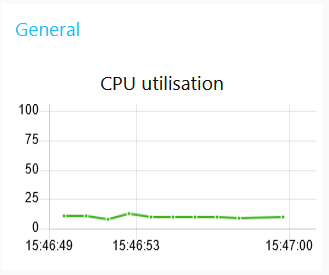
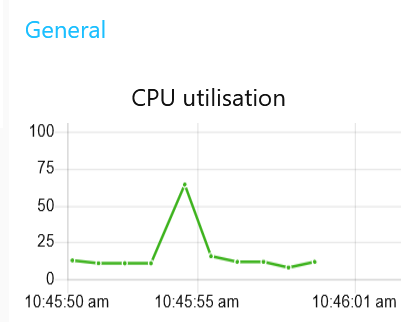
reworked naming and CPU util example

diff --git a/doc/EXAMPLES.md b/doc/EXAMPLES.md
@@ -29,7 +29,7 @@ This page contains various examples for different use cases. Looking through the
 - [Example: Monitor and handle a real PLC variable "rReal"](#example-monitor-and-handle-a-real-plc-variable-rreal)
 - [Example: Monitor and handle a string PLC variable "sString"](#example-monitor-and-handle-a-string-plc-variable-sstring)
 
-[Dashboard examples for ctrlX MOTION](#dashboard-examples-for-ctrlx-motion)
+[Dashboard examples for ctrlX MOTION app](#dashboard-examples-for-ctrlx-motion-app)
 
 - [Example: Monitor and switch motion state](#example-monitor-and-switch-motion-state)
 - [Example: Browse and show all available axes](#example-browse-and-show-all-available-axes)
@@ -39,7 +39,7 @@ This page contains various examples for different use cases. Looking through the
 - [Example: Move an axis "AxisX"](#example-move-an-axis-axisx)
 - [Example: Abort an axis movement of "AxisX"](#example-abort-an-axis-movement-of-axisx)
 
-[Dashboard examples for script interpreter and ctrlX CORE - Python Runtime App](#dashboard-examples-for-script-handler-and-ctrlx-python)
+[Dashboard examples for script interpreter and ctrlX CORE - Python Runtime App](#dashboard-examples-for-script-interpreter-and-ctrlx-core---python-runtime-app)
 
 - [Example: Create an interpreter instance "MyInstance" for python](#example-create-an-interpreter-instance-myinstance-for-python)
 - [Example: Browse and show all available interpreter instances](#example-browse-and-show-all-available-interpreter-instances)
@@ -54,7 +54,9 @@ The example flows can either be imported via the clipboard or by importing direc
 
 ![examples_import_nodes.png](./images/examples_import_nodes.png)
 
-Keep in mind, that you need to insert valid credentials (username and password) for your device and t adjust your hostname.
+Keep in mind, that you need to insert valid credentials (username and password) for your device and adjust your hostname inside of the communication nodes.
+When importing several examples after each other a message `Some of the nodes you are importing already exist in your workspace.` appears. Please choose `View nodes...` and click on `Import selected`. Otherwise you could overwrite existing settings nodes.
+
 
 ## General examples
 
@@ -82,7 +84,7 @@ The following example shows how to subscribe to the current CPU utilisation and 
 ![example-monitor-cpu-utilisation-linechart-dashboard.png](./images/example-monitor-cpu-utilisation-linechart-dashboard.png)
 
 ```JSON
-[{"id":"fc358c7bab410d9d","type":"ui_chart","z":"5480b2f5a22f3525","name":"","group":"a4ba432c81cdab8a","order":0,"width":"0","height":"0","label":"CPU utilisation","chartType":"line","legend":"false","xformat":"HH:mm:ss","interpolate":"linear","nodata":"","dot":true,"ymin":"0","ymax":"100","removeOlder":1,"removeOlderPoints":"","removeOlderUnit":"60","cutout":0,"useOneColor":false,"useUTC":false,"colors":["#3eb31e","#aec7e8","#ff7f0e","#2ca02c","#98df8a","#d62728","#ff9896","#9467bd","#c5b0d5"],"outputs":1,"useDifferentColor":false,"className":"","x":760,"y":560,"wires":[[]]},{"id":"beb3ea051cd65ac2","type":"ctrlx-datalayer-subscribe","z":"5480b2f5a22f3525","subscription":"632bcc2.eddf134","path":"framework/metrics/system/cpu-utilisation-percent","name":"","x":300,"y":560,"wires":[["f283f038cc73dafc"]]},{"id":"f283f038cc73dafc","type":"function","z":"5480b2f5a22f3525","name":"","func":"let value10 = context.get(\"value10\")\nlet value9 = context.get(\"value9\")\nlet value8 = context.get(\"value8\")\nlet value7 = context.get(\"value7\")\nlet value6 = context.get(\"value6\")\nlet value5 = context.get(\"value5\")\nlet value4 = context.get(\"value4\")\nlet value3 = context.get(\"value3\")\nlet value2 = context.get(\"value2\")\nlet value1 = context.get(\"value1\")\n\ncontext.set(\"value1\", value2)\ncontext.set(\"value2\", value3)\ncontext.set(\"value3\", value4)\ncontext.set(\"value4\", value5)\ncontext.set(\"value5\", value6)\ncontext.set(\"value6\", value7)\ncontext.set(\"value7\", value8)\ncontext.set(\"value8\", value9)\ncontext.set(\"value9\", value10)\ncontext.set(\"value10\", msg.payload)\n\nlet time10 = context.get(\"time10\")\nlet time9 = context.get(\"time9\")\nlet time8 = context.get(\"time8\")\nlet time7 = context.get(\"time7\")\nlet time6 = context.get(\"time6\")\nlet time5 = context.get(\"time5\")\nlet time4 = context.get(\"time4\")\nlet time3 = context.get(\"time3\")\nlet time2 = context.get(\"time2\")\nlet time1 = context.get(\"time1\")\n\ncontext.set(\"time1\", time2)\ncontext.set(\"time2\", time3)\ncontext.set(\"time3\", time4)\ncontext.set(\"time4\", time5)\ncontext.set(\"time5\", time6)\ncontext.set(\"time6\", time7)\ncontext.set(\"time7\", time8)\ncontext.set(\"time8\", time9)\ncontext.set(\"time9\", time10)\ncontext.set(\"time10\", msg.timestamp)\n\nvar chart = [{\n    \"series\": [\"CPU\"],\n    \"data\": [[{ \"x\": time1, \"y\": value1 },\n                { \"x\": time2, \"y\": value2 },\n                { \"x\": time3, \"y\": value3 },\n                { \"x\": time4, \"y\": value4 },\n                { \"x\": time5, \"y\": value5 },\n                { \"x\": time6, \"y\": value6 },\n                { \"x\": time7, \"y\": value7 },\n                { \"x\": time8, \"y\": value8 },\n                { \"x\": time9, \"y\": value9 },\n                { \"x\": msg.timestamp, \"y\": msg.payload}]],\n    \"labels\": [\"mylabeltest\"]\n}];\nmsg.payload = chart;\nreturn msg;","outputs":1,"noerr":0,"initialize":"","finalize":"","libs":[],"x":580,"y":560,"wires":[["fc358c7bab410d9d"]]},{"id":"dc3e7b2.6ab9388","type":"comment","z":"5480b2f5a22f3525","name":"Example: Monitor CPU utilisation in line chart","info":"","x":290,"y":500,"wires":[]},{"id":"a4ba432c81cdab8a","type":"ui_group","name":"General","tab":"9cba2148.8c9148","order":2,"disp":true,"width":"6","collapse":false,"className":""},{"id":"632bcc2.eddf134","type":"ctrlx-config-subscription","device":"7b877229.678964","name":"Sub_Default","publishIntervalMs":""},{"id":"9cba2148.8c9148","type":"ui_tab","name":"Examples","icon":"dashboard","order":7,"disabled":false,"hidden":false},{"id":"7b877229.678964","type":"ctrlx-config","name":"localhost","hostname":"localhost","debug":false}]
+[{"id":"beb3ea051cd65ac2","type":"ctrlx-datalayer-subscribe","z":"5480b2f5a22f3525","subscription":"632bcc2.eddf134","path":"framework/metrics/system/cpu-utilisation-percent","name":"","x":300,"y":560,"wires":[["be8fc64ed0c8ea73"]]},{"id":"dc3e7b2.6ab9388","type":"comment","z":"5480b2f5a22f3525","name":"Example: Monitor CPU utilisation in line chart","info":"","x":290,"y":520,"wires":[]},{"id":"be8fc64ed0c8ea73","type":"ui_chart","z":"5480b2f5a22f3525","name":"","group":"a4ba432c81cdab8a","order":0,"width":"0","height":"0","label":"CPU utilisation","chartType":"line","legend":"false","xformat":"auto","interpolate":"linear","nodata":"","dot":true,"ymin":"0","ymax":"100","removeOlder":1,"removeOlderPoints":"10","removeOlderUnit":"60","cutout":0,"useOneColor":false,"useUTC":false,"colors":["#3eb31e","#aec7e8","#ff7f0e","#2ca02c","#98df8a","#d62728","#ff9896","#9467bd","#c5b0d5"],"outputs":1,"useDifferentColor":false,"className":"","x":620,"y":560,"wires":[[]]},{"id":"632bcc2.eddf134","type":"ctrlx-config-subscription","device":"7b877229.678964","name":"Sub_Default","publishIntervalMs":""},{"id":"a4ba432c81cdab8a","type":"ui_group","name":"General","tab":"9cba2148.8c9148","order":2,"disp":true,"width":"6","collapse":false,"className":""},{"id":"7b877229.678964","type":"ctrlx-config","name":"localhost","hostname":"localhost","debug":false},{"id":"9cba2148.8c9148","type":"ui_tab","name":"Examples","icon":"dashboard","order":7,"disabled":false,"hidden":false}]
 ```
 
 ### Catch an error in case a node is missing or the node path is invalid
@@ -359,11 +361,11 @@ The following example shows how to abort an movement of a motion axis `AxisX` in
 
 ## Dashboard examples for script interpreter and ctrlX CORE - Python Runtime App
 
-Please note that for these examples the installation of the "ctrlX CORE - Python Runtime App" is expected. See [our store](https://developer.community.boschrexroth.com/t5/Store-and-How-to/ctrlX-CORE-Python-Runtime-App/ba-p/15901) and the corresponding [documentation of the "Script parser/interpreter (Python)"](https://docs.automation.boschrexroth.com/document/version/1.0/R911403767_ctrlX-CORE_-Base_-1_-en_US/chapter/metadata.boschrexroth.de~iiDC~Topic-0e3a24c48bafe9140a347e880b4e0362-2-en-US~en/?sel=IwegDCAs49BMAuMAaUFoXSRBmSQ%3D).
+Please note that for these examples the installation of the `ctrlX CORE - Python Runtime App` is expected. See [our store](https://developer.community.boschrexroth.com/t5/Store-and-How-to/ctrlX-CORE-Python-Runtime-App/ba-p/15901) and the corresponding [documentation of the "Script parser/interpreter (Python)"](https://docs.automation.boschrexroth.com/document/version/1.0/R911403767_ctrlX-CORE_-Base_-1_-en_US/chapter/metadata.boschrexroth.de~iiDC~Topic-0e3a24c48bafe9140a347e880b4e0362-2-en-US~en/?sel=IwegDCAs49BMAuMAaUFoXSRBmSQ%3D).
 
 ### Example: Create an interpreter instance "MyInstance" for python
 
-The following example shows how to create an interpreter instance "MyInstance" for executing python code/scripts.
+The following example shows how to create an interpreter instance `MyInstance` for executing python code/scripts.
 
 ![example-interpreter-create-instance.png](./images/example-interpreter-create-instance.png)
 ![example-interpreter-create-instance-dashboard.png](./images/example-interpreter-create-instance-dashboard.png)
@@ -420,7 +422,7 @@ The following example shows how to execute a python command script in n script i
 
 The following example shows how to execute a python script file in a script interpreter instance `MyInstance`. The corresponding instance has to be present and in state `INIT` or `READY`. The file `test.py` has to be present in the root folder of the active configuration.
 
-Content of "test.py":
+Content of `test.py`:
 
 ```python
 import time
